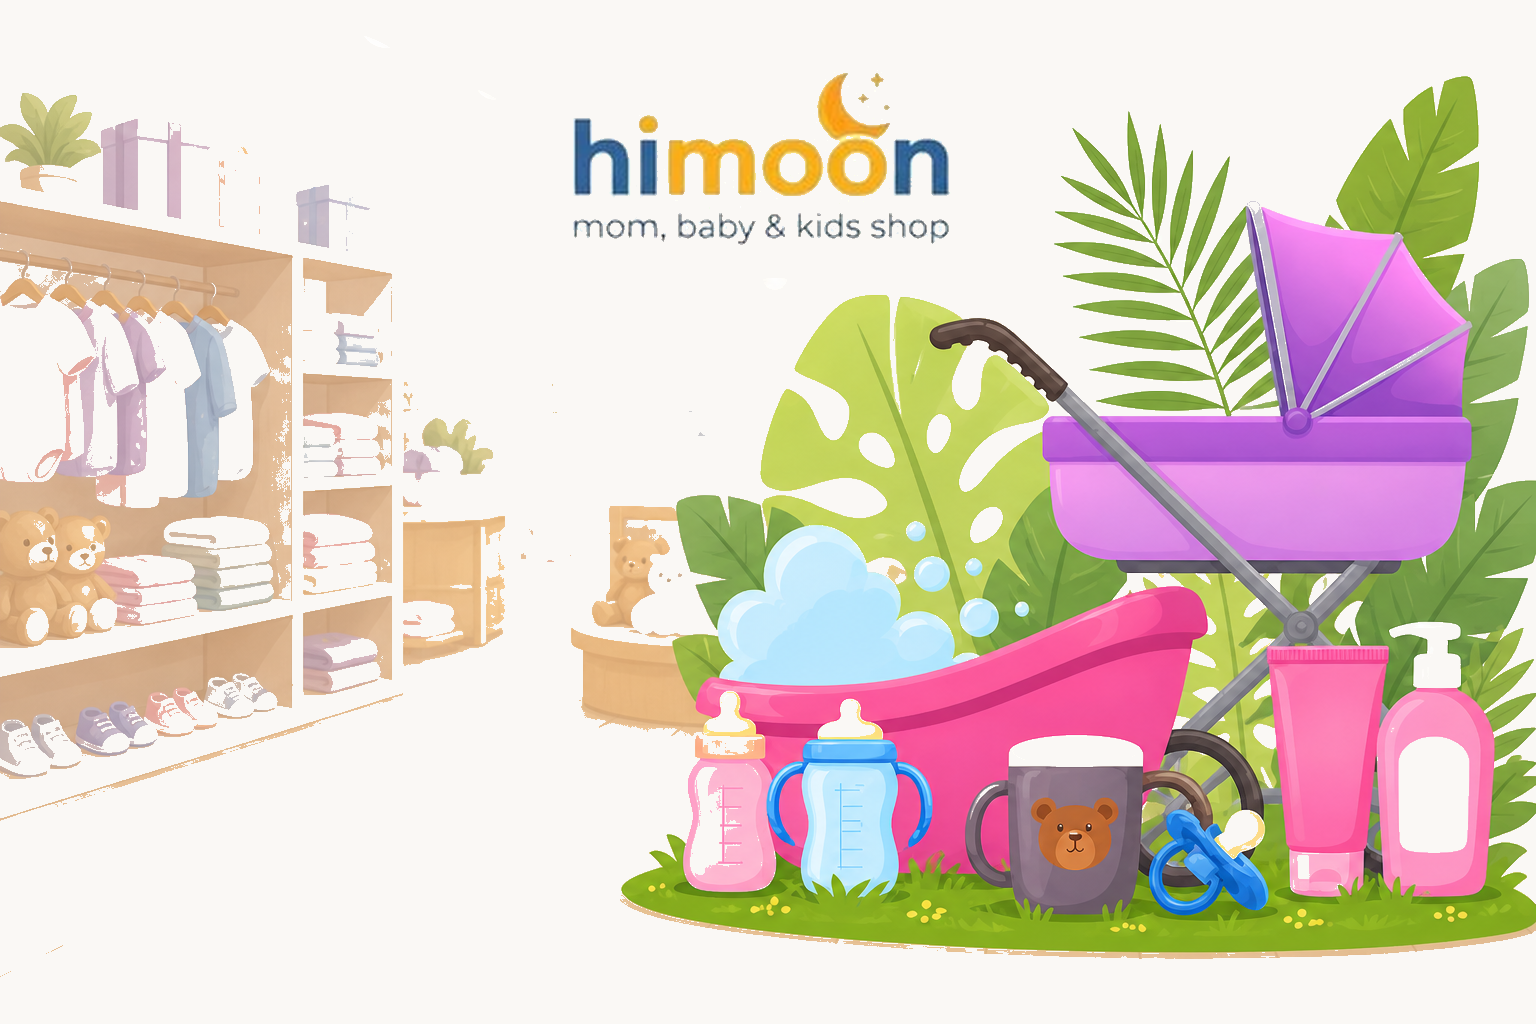
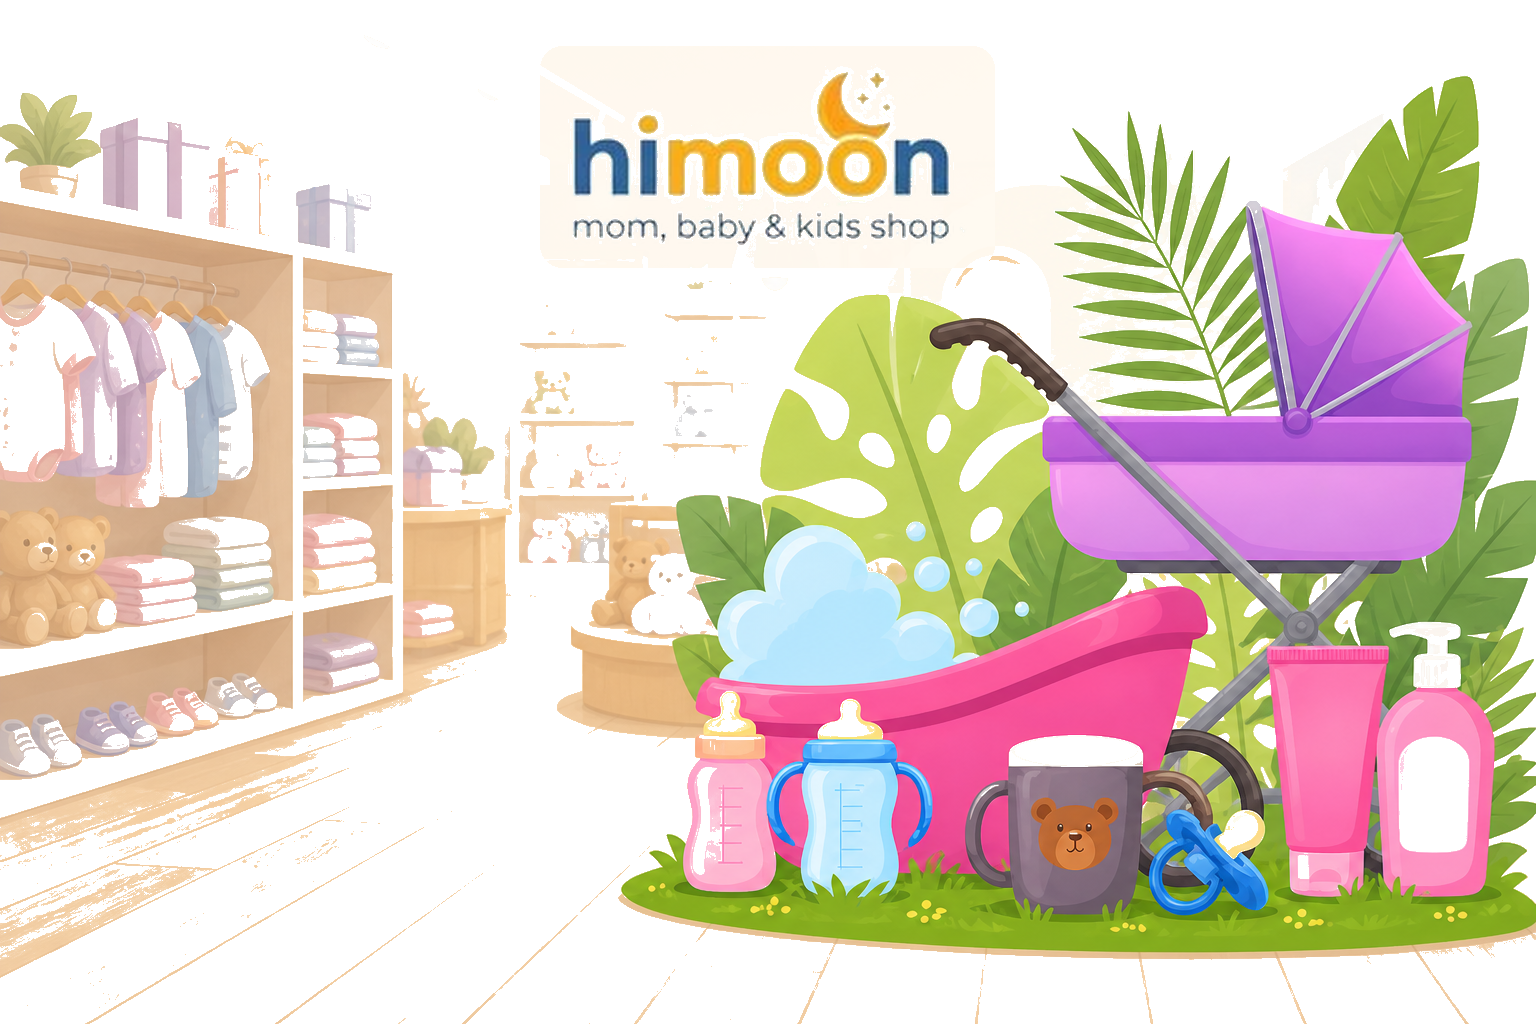
Restyle hero like MadeBrings with full-bleed blended illustration
Use a transparent-background hero image as an atmospheric full-width layer with a left cream gradient, so text and artwork feel like one section instead of a separate picture box.

diff --git a/src/components/hero.tsx b/src/components/hero.tsx
@@ -10,25 +10,39 @@ export function Hero() {
   const { t } = useLanguage();
 
   return (
-    <section className="bg-himoon-cream">
-      <div className="mx-auto grid max-w-7xl items-center gap-5 px-4 py-7 md:grid-cols-2 md:gap-8 md:px-6 md:py-9 lg:py-10">
-        <div className="max-w-xl">
+    <section className="relative overflow-hidden bg-himoon-cream">
+      {/* Full-bleed illustration layer — like MadeBrings, not a separate box */}
+      <div className="pointer-events-none absolute inset-0">
+        <Image
+          src="/hero-background.png"
+          alt=""
+          fill
+          priority
+          className="object-cover object-[72%_center] opacity-95 md:object-[78%_center] lg:object-[80%_center]"
+          sizes="100vw"
+        />
+        <div className="absolute inset-0 bg-gradient-to-r from-himoon-cream from-0% via-himoon-cream via-42% to-transparent to-100%" />
+        <div className="absolute inset-0 bg-gradient-to-t from-himoon-cream/40 via-transparent to-himoon-cream/20" />
+      </div>
+
+      <div className="relative mx-auto max-w-7xl px-4 py-8 md:px-6 md:py-10 lg:py-12">
+        <div className="max-w-xl md:max-w-lg lg:max-w-xl">
           <p className="mb-2 text-xs font-semibold uppercase tracking-wider text-himoon-muted md:text-sm">
             {t.hero.eyebrow}
           </p>
           <h1 className="text-3xl font-extrabold leading-tight tracking-tight text-himoon-blue md:text-4xl lg:text-[2.75rem] lg:leading-tight">
             {t.hero.title}
           </h1>
-          <p className="mt-3 text-base leading-relaxed text-himoon-muted md:mt-4 md:text-lg">
+          <p className="mt-3 max-w-md text-base leading-relaxed text-himoon-muted md:mt-4 md:text-lg">
             {t.hero.subtitle}
           </p>
 
           <div className="mt-4 flex flex-wrap items-center gap-2 md:mt-5 md:gap-3">
-            <span className="inline-flex items-center gap-1.5 rounded-full bg-emerald-50 px-2.5 py-1 text-xs font-semibold text-emerald-700 md:gap-2 md:px-3 md:py-1.5 md:text-sm">
+            <span className="inline-flex items-center gap-1.5 rounded-full bg-white/80 px-2.5 py-1 text-xs font-semibold text-emerald-700 shadow-sm backdrop-blur-sm md:gap-2 md:px-3 md:py-1.5 md:text-sm">
               <ShieldCheck className="h-3.5 w-3.5 md:h-4 md:w-4" />
               {t.hero.trusted}
             </span>
-            <span className="inline-flex items-center gap-1.5 rounded-full bg-amber-50 px-2.5 py-1 text-xs font-semibold text-amber-700 md:gap-2 md:px-3 md:py-1.5 md:text-sm">
+            <span className="inline-flex items-center gap-1.5 rounded-full bg-white/80 px-2.5 py-1 text-xs font-semibold text-amber-700 shadow-sm backdrop-blur-sm md:gap-2 md:px-3 md:py-1.5 md:text-sm">
               <Star className="h-3.5 w-3.5 fill-amber-500 text-amber-500 md:h-4 md:w-4" />
               {t.hero.rating}
             </span>
@@ -50,18 +64,6 @@ export function Hero() {
               {t.hero.ctaShopee}
             </a>
           </div>
-        </div>
-
-        <div className="relative bg-himoon-cream">
-          <Image
-            src="/hero-background.png"
-            alt="HiMoon mom, baby & kids shop"
-            width={1536}
-            height={1024}
-            priority
-            className="h-auto w-full max-h-[220px] object-contain object-right sm:max-h-[260px] md:max-h-[300px] lg:max-h-[340px]"
-            sizes="(max-width: 768px) 100vw, 50vw"
-          />
         </div>
       </div>
     </section>
